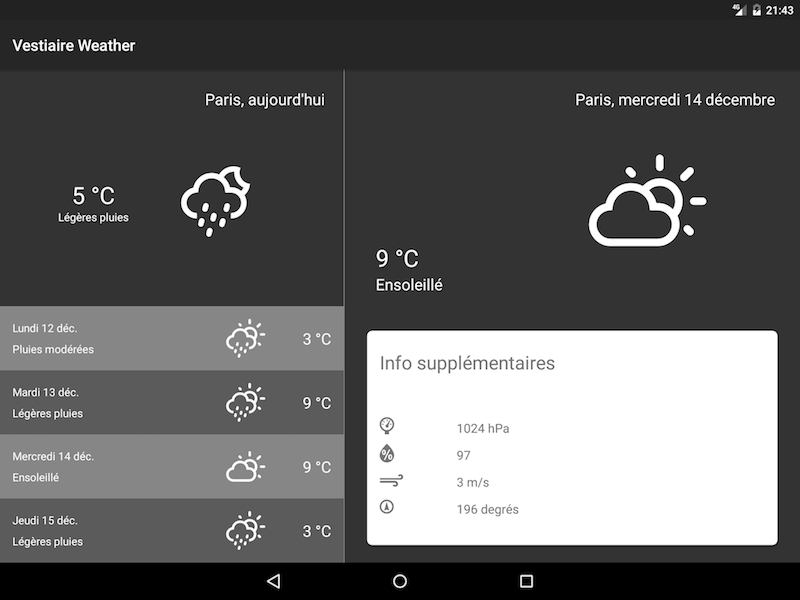
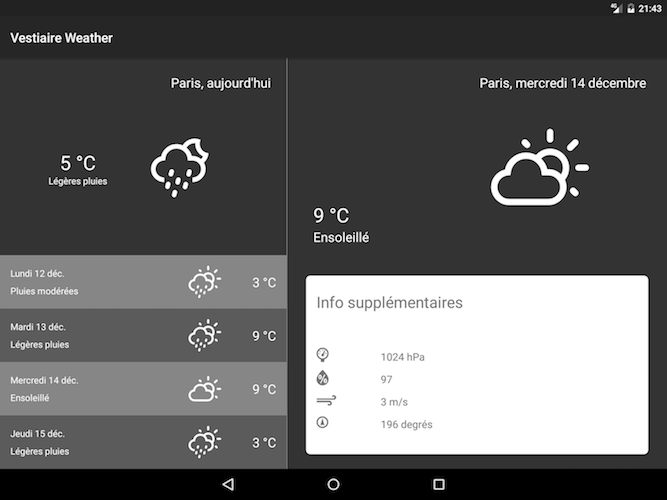
Implem toolbar arrow navigation (except tablet xD)

diff --git a/app/src/main/java/com/didi/vestiaireweather/activity/BaseActivity.java b/app/src/main/java/com/didi/vestiaireweather/activity/BaseActivity.java
@@ -27,11 +27,17 @@ import com.mikepenz.iconics.view.IconicsImageView;
 import java.util.ArrayList;
 import java.util.List;
 
+import butterknife.BindView;
+import butterknife.ButterKnife;
+
 /**
  * Created by didi on 11/12/2016.
  */
 
 public class BaseActivity extends AppCompatActivity implements ActivityViewCommonOps, OnCustomItemSelectedListener, OnCurrentWeatherLoadedListener {
+
+    @BindView(R.id.toolbar)
+    public Toolbar toolbar;
 
     ProgressDialog progressDialog;
 
@@ -41,9 +47,9 @@ public class BaseActivity extends AppCompatActivity implements ActivityViewCommo
         LayoutInflaterCompat.setFactory(getLayoutInflater(), new IconicsLayoutInflater(getDelegate()));
         super.onCreate(savedInstanceState);
         setContentView(R.layout.activity_base);
-        Toolbar toolbar = (Toolbar) findViewById(R.id.toolbar);
+        ButterKnife.bind(this);
         setSupportActionBar(toolbar);
-        if(getSupportActionBar() != null) getSupportActionBar().setDisplayHomeAsUpEnabled(true);
+        if(getSupportActionBar() != null) getSupportActionBar().setDisplayHomeAsUpEnabled(false);
 
         //Show Home weather list fragment if handset or tablet
         replaceMainFragment(HomeWeatherFragmentView.newInstance(), null, false, HomeWeatherFragmentView.TAG);
@@ -128,6 +134,11 @@ public class BaseActivity extends AppCompatActivity implements ActivityViewCommo
     @Override
     public void hideProgressDialog() {
         if(progressDialog != null && progressDialog.isShowing()) progressDialog.dismiss();
+    }
+
+    @Override
+    public void onBackPressed() {
+        super.onBackPressed();
     }
 
     @Override

diff --git a/app/src/main/java/com/didi/vestiaireweather/mvp/view/BaseMvpFragmentView.java b/app/src/main/java/com/didi/vestiaireweather/mvp/view/BaseMvpFragmentView.java
@@ -1,5 +1,10 @@
 package com.didi.vestiaireweather.mvp.view;
 
+import android.os.Bundle;
+import android.support.annotation.Nullable;
+import android.view.MenuItem;
+
+import com.didi.vestiaireweather.activity.BaseActivity;
 import com.tinmegali.mvp.mvp.GenericMVPFragment;
 import com.tinmegali.mvp.mvp.PresenterOps;
 
@@ -12,4 +17,31 @@ public class BaseMvpFragmentView<ActivityViewCommonOps, RequiredViewOps,
         ProvidedPresenterOps, PresenterType extends PresenterOps<RequiredViewOps>>
         extends GenericMVPFragment<ActivityViewCommonOps, RequiredViewOps, ProvidedPresenterOps, PresenterType> {
 
+    @Override
+    public void onCreate(@Nullable Bundle savedInstanceState) {
+        super.onCreate(savedInstanceState);
+
+        //Needed to see and interact with toolbar menuItems
+        setHasOptionsMenu(true);
+    }
+
+    @Override
+    public boolean onOptionsItemSelected(MenuItem item) {
+        boolean result;
+        switch (item.getItemId()){
+            case android.R.id.home:
+                //Will intercept navigation icon in BaseActivity
+                ((BaseActivity) mActivity.get()).onBackPressed();
+                result = true;
+                break;
+            default:
+                result = super.onOptionsItemSelected(item);
+        }
+        return result;
+    }
+
+    protected void showNavigationIcon(boolean visible){
+        if(((BaseActivity) mActivity.get()).getSupportActionBar() != null)
+            ((BaseActivity) mActivity.get()).getSupportActionBar().setDisplayHomeAsUpEnabled(visible);
+    }
 }

diff --git a/app/src/main/java/com/didi/vestiaireweather/mvp/view/DetailsWeatherFragmentView.java b/app/src/main/java/com/didi/vestiaireweather/mvp/view/DetailsWeatherFragmentView.java
@@ -77,6 +77,7 @@ public class DetailsWeatherFragmentView extends BaseMvpFragmentView
     public View onCreateView(LayoutInflater inflater, ViewGroup container, Bundle savedInstanceState) {
         View view = inflater.inflate(R.layout.fragment_weather_details, container, false);
         ButterKnife.bind(this, view);
+        showNavigationIcon(true);
         loadDetailsWeather();
         return view;
     }

diff --git a/app/src/main/java/com/didi/vestiaireweather/mvp/view/HomeWeatherFragmentView.java b/app/src/main/java/com/didi/vestiaireweather/mvp/view/HomeWeatherFragmentView.java
@@ -67,6 +67,7 @@ public class HomeWeatherFragmentView extends BaseMvpFragmentView
     public View onCreateView(LayoutInflater inflater, ViewGroup container, Bundle savedInstanceState) {
         View view = inflater.inflate(R.layout.fragment_weather_home, container, false);
         ButterKnife.bind(this, view);
+        showNavigationIcon(false);
         loadWeatherForecast();
         return view;
     }

diff --git a/app/src/main/java/com/didi/vestiaireweather/mvp/view/ActivityViewCommonOps.java b/app/src/main/java/com/didi/vestiaireweather/mvp/view/ActivityViewCommonOps.java
@@ -15,4 +15,5 @@ public interface ActivityViewCommonOps {
     void replaceMainFragment(Fragment destFragment, List<SharedElement> listSharedElements, boolean addToBackStack, String tag);
     void showProgressDialog(String message, boolean cancelable);
     void hideProgressDialog();
+    void onBackPressed();
 }

diff --git a/README.md b/README.md
@@ -34,7 +34,6 @@ A click on an item of the left pane will change content in the right pane to get
 ![Tablet home](https://raw.github.com/didi4yeah/VestiaireWeather/master/screenshots/VestaireWeather_tablet.png "Tablet home")
 
 ##TODO
-* Toolbar arrow implem
 * Network error (timeout)
 * Snackbar messages
 * List selector in tablet mode to know wich element is selected
